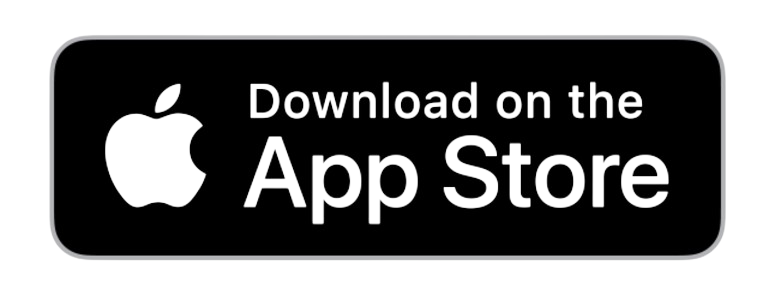
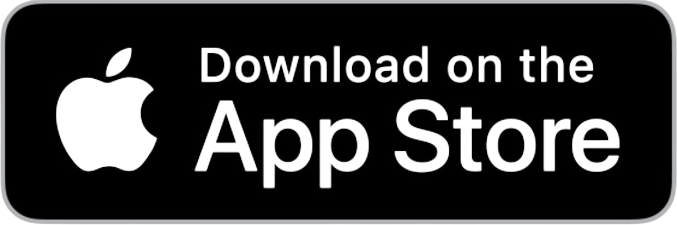
fix: bg-images download

diff --git a/styles/sign-up.css b/styles/sign-up.css
@@ -246,18 +246,19 @@ main>footer {
 .sign-up-section footer.download-section p {
     color: #000;
     text-align: center;
-    margin-top: 1rem;
-    margin-bottom: 0.5rem;
+    margin-top: 1.25rem;
+    margin-bottom: 1.25rem;
     font-size: 0.95rem;
 }
 
 .sign-up-section footer.download-section .icons-apps {
     display: flex;
     justify-content: center;
+    gap: 0.6rem;
 }
 
 .sign-up-section footer.download-section .icons-apps img {
-    max-width: 160px;
+    max-width: 140px;
     margin-bottom: 1rem;
     cursor: pointer;
 }
